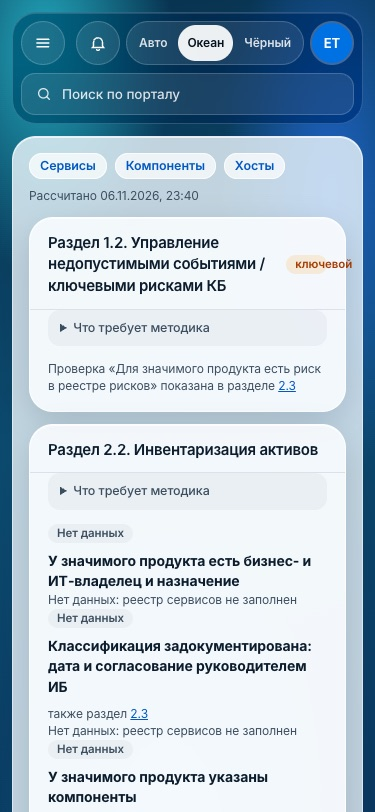
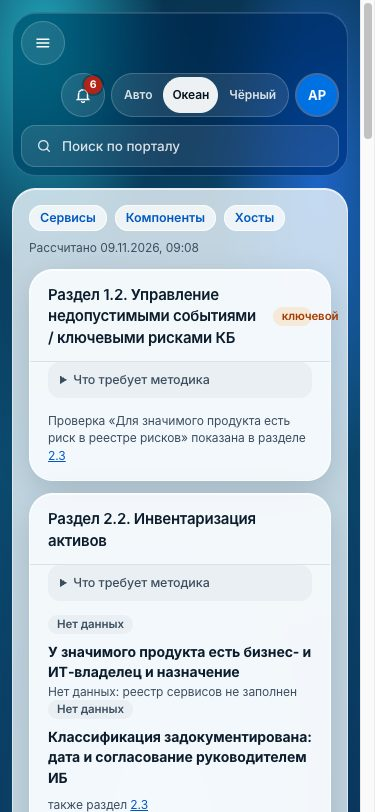
docs(design): 1.13.0 — скриншоты «Океан»: обе темы на 375 px и «Самооценка» со стенда репетиции; без not-found
- 375 px в обеих темах (и вход) — стенд ibportal-v19check, образы 1.13.0, через nginx.
- assessment-* — пользователь с ролью «Самооценка» (прежние снимки были копией дашборда).
- not-found-* удалены: отдельной страницы нет, адрес ведёт на главную (снимки дублировали дашборд).
- README каталога: откуда какие снимки; замечание о подписи в узком меню — в 1.13.1.
Только документация, код и образы 1.13.0 не меняются, тег не ставится.

(cherry picked from commit 2191087032b582735f1808dfa370ef6c794b37a0)

diff --git a/docs/design/ocean/screens/README.md b/docs/design/ocean/screens/README.md
@@ -1,0 +1,10 @@
+# Скриншоты «Океан» (1.13.0)
+
+Для проверки глазами, не эталоны сравнения. Имя файла: `<экран>-<тема>-<ширина>.jpg`; тема `ocean` — «Океан», `black` — «Чёрный океан».
+
+- **1440 px, обе темы** — сценарий `frontend/e2e/screens.shot.mjs` на одноразовой базе e2e, пользователь `e2e.dev` (06.11.2026, сборка 1.12.0-dev с «Океаном»).
+- **375 px, обе темы, и `login-*-375`** — стенд репетиции 1.9.0 → 1.13.0 (`ibportal-v19check`, образы 1.13.0, через nginx), супер-администратор стенда, 09.11.2026. Данных на стенде мало: экраны в основном пустые.
+- **`assessment-*`** — стенд, пользователь только с ролью «Самооценка» (09.11.2026): в прежних снимках вместо самооценки был дашборд — у пользователя e2e нет `assessment.manage`.
+- Отдельной страницы «не найдено» в портале нет: неизвестный адрес ведёт на главную, поэтому снимков `not-found-*` нет.
+
+Видно на снимках и перенесено в 1.13.1: у пользователя с одним-двумя разделами меню уже, и подпись внизу («Версия …», «Закрытый контур») обрезается — `assessment-*-1440.jpg`.
